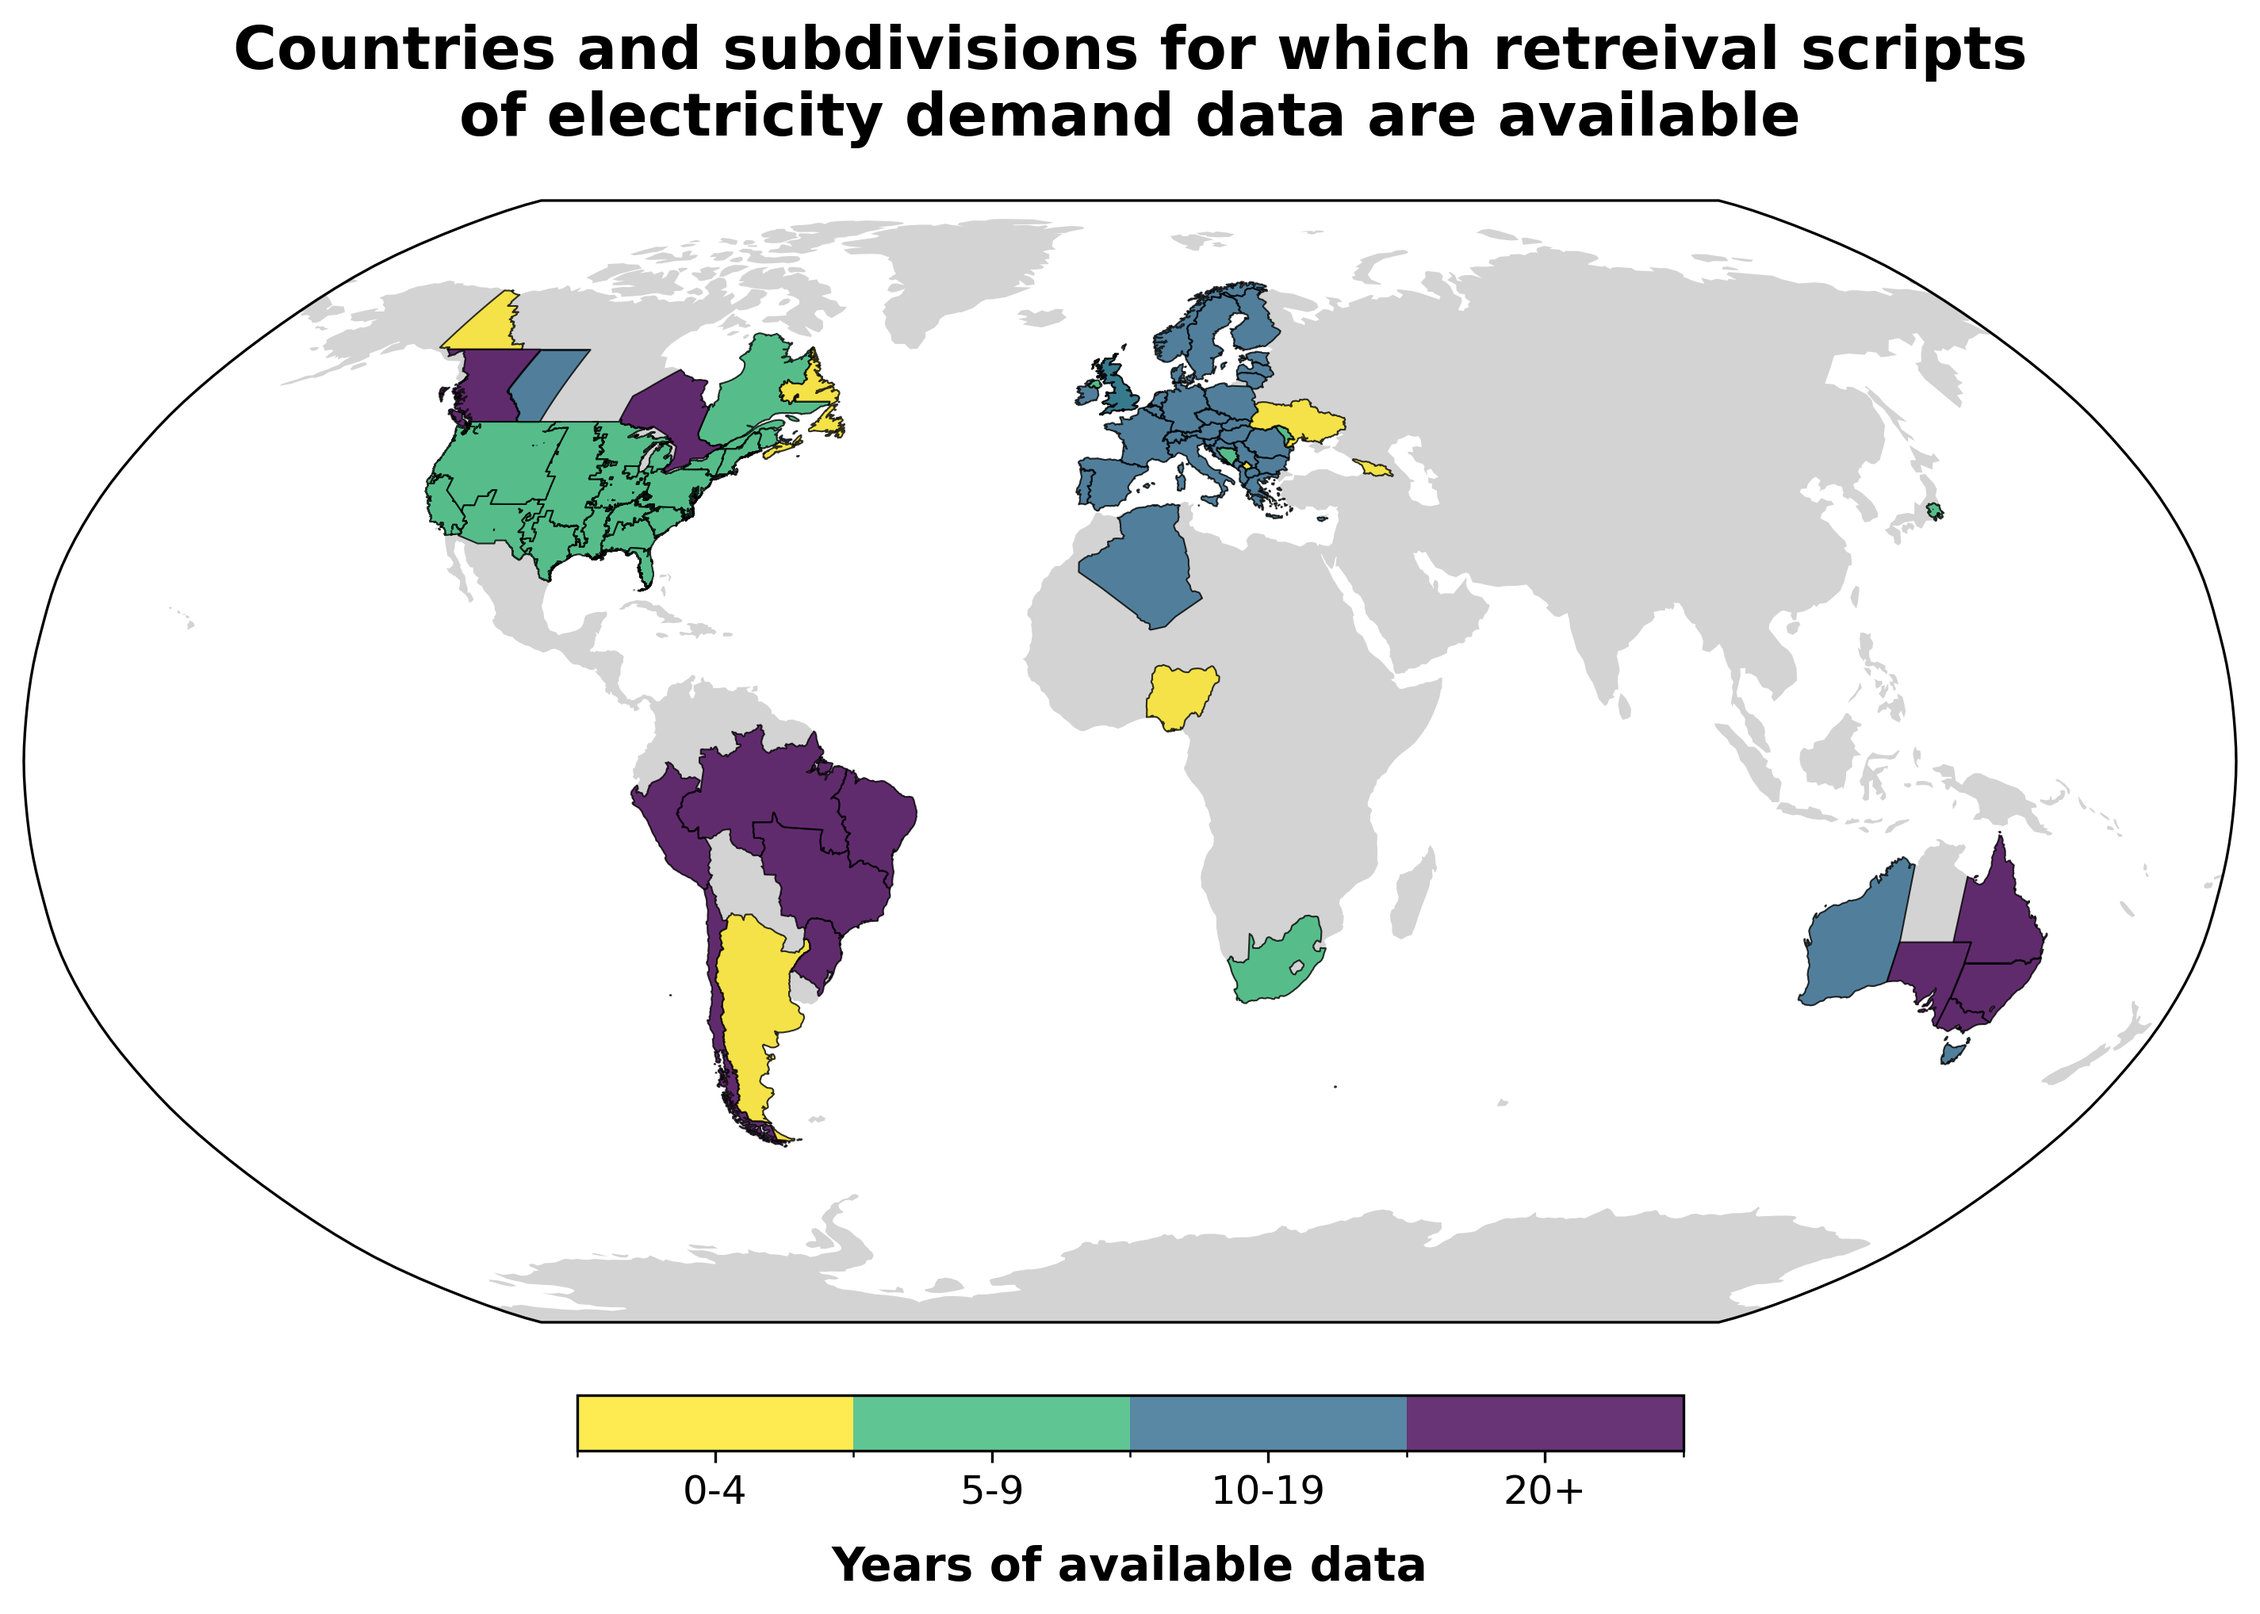
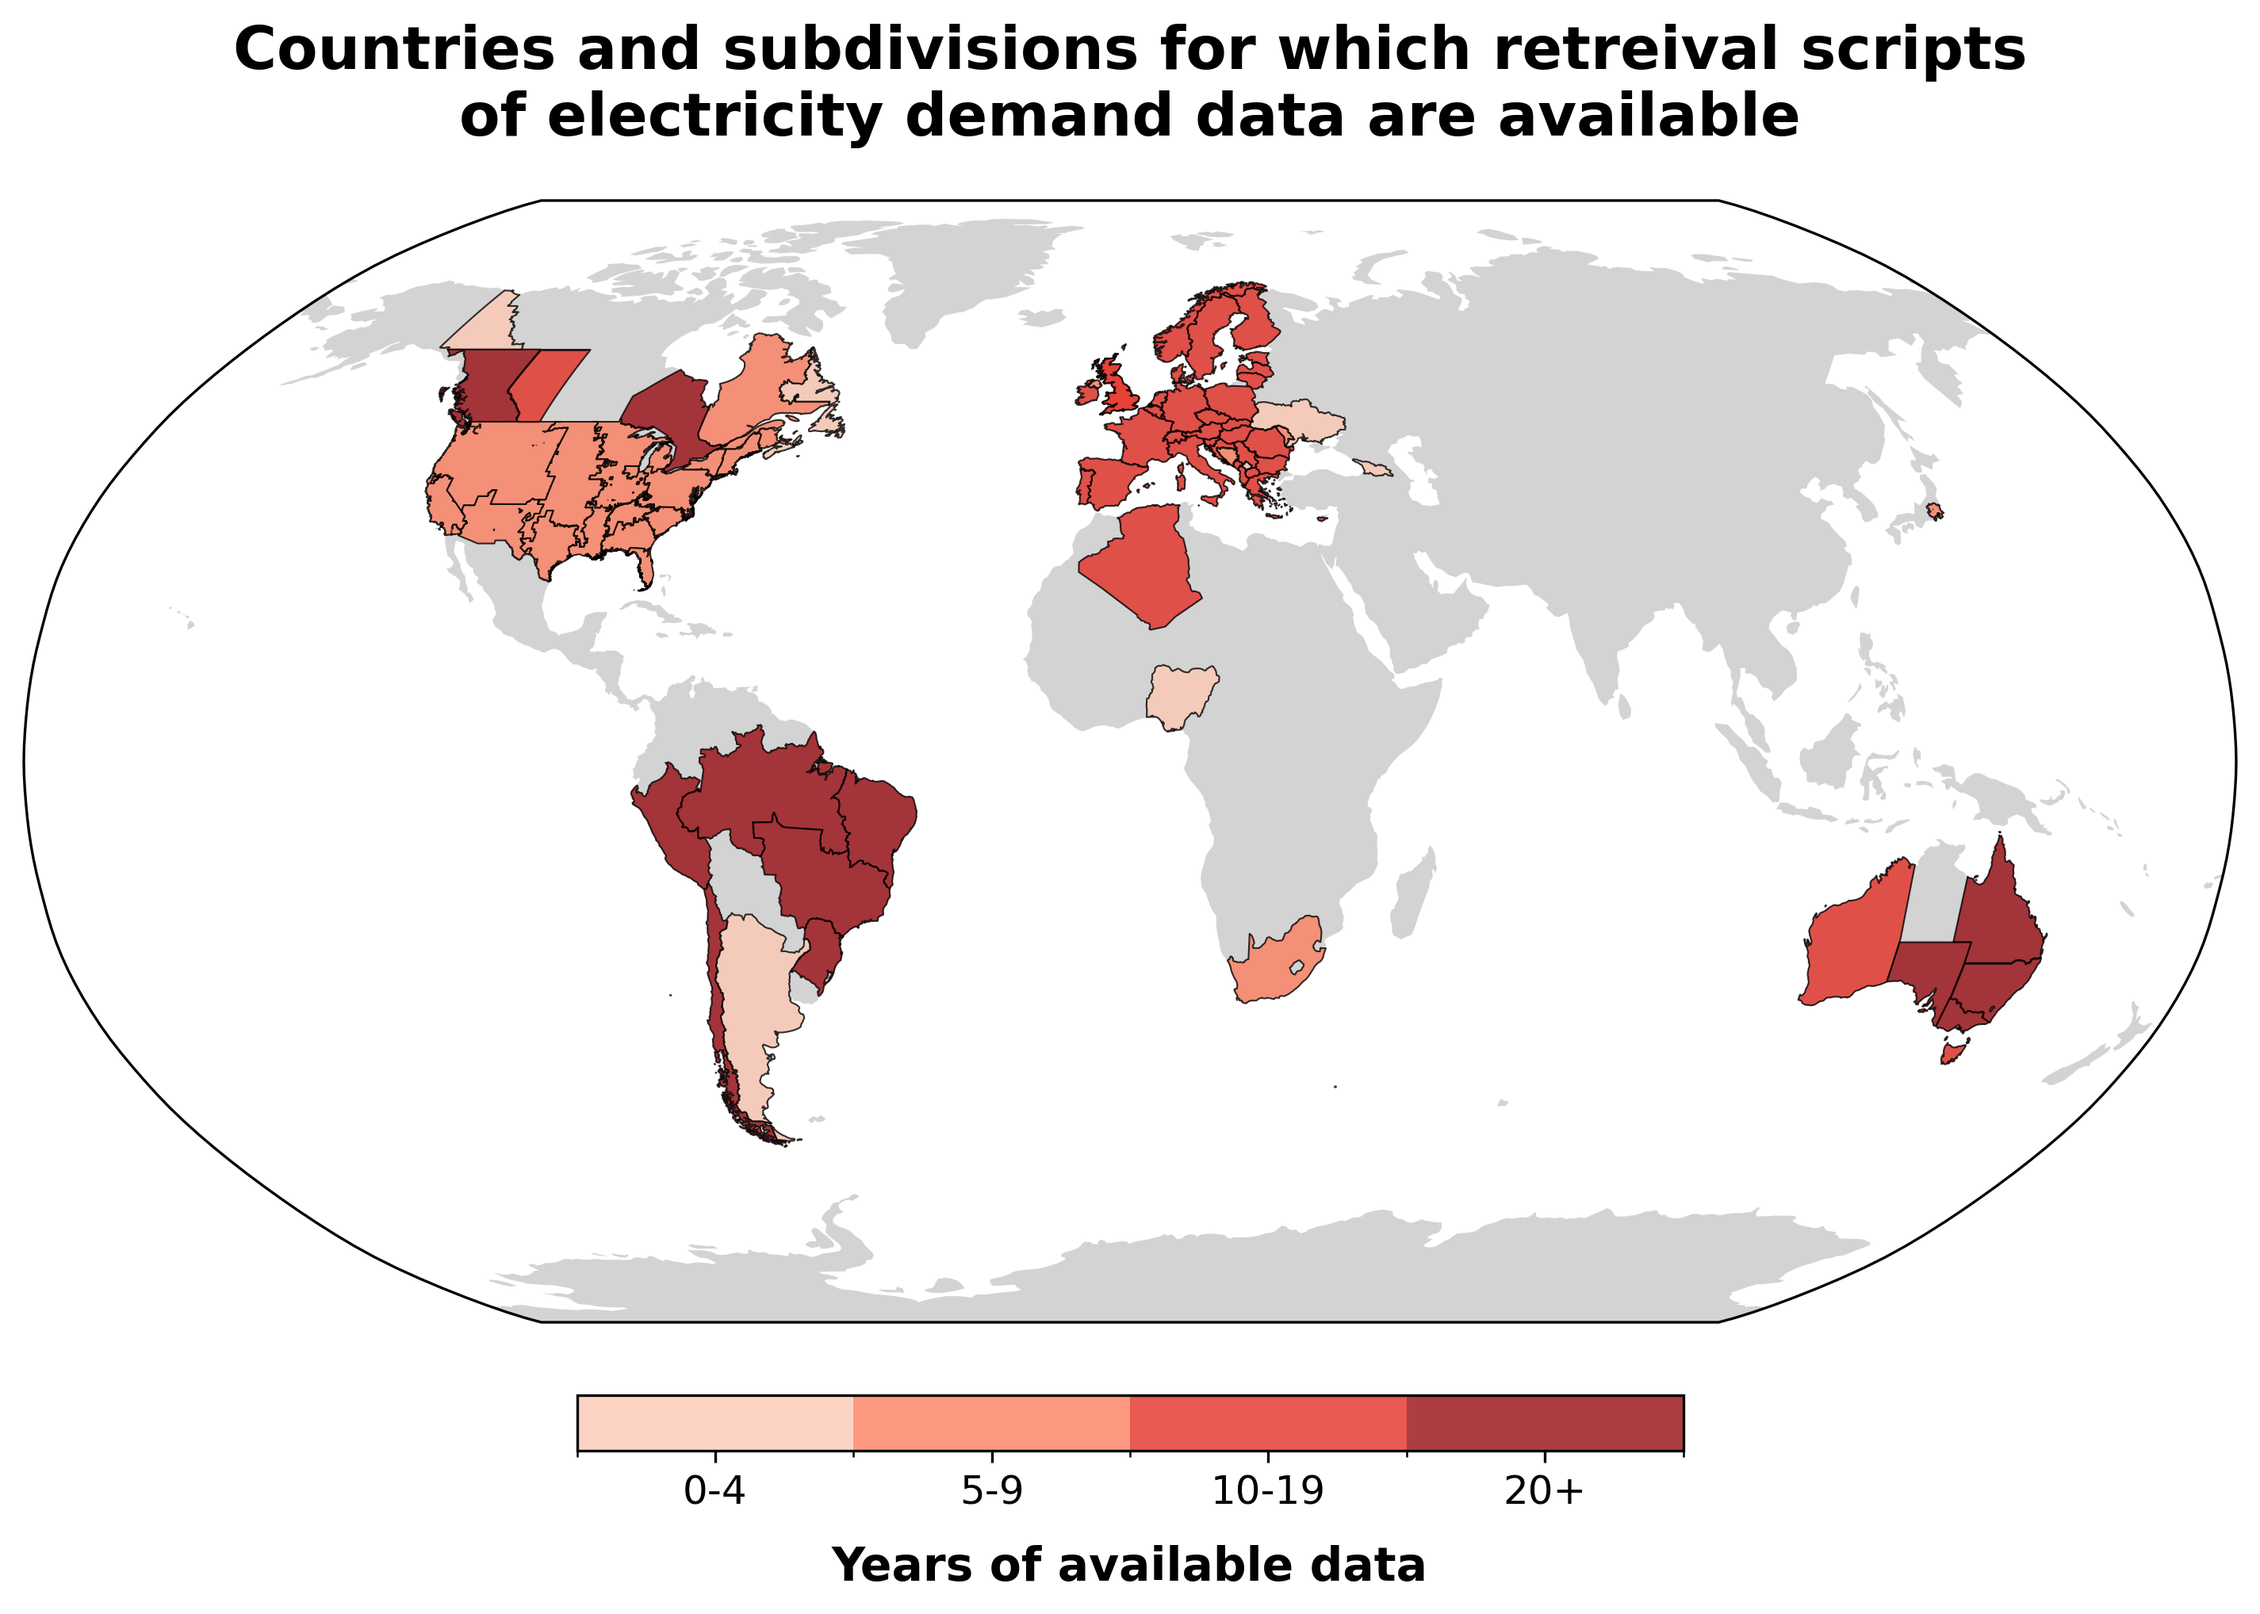
Updated map

diff --git a/ETL/draw_map_of_covered_countries.py b/ETL/draw_map_of_covered_countries.py
@@ -45,10 +45,14 @@ ax.add_feature(cartopy.feature.LAND, facecolor="lightgray")
 date_ranges = util.entities.read_all_date_ranges()
 
 # Define the colormap.
-map_cmap = matplotlib.pyplot.get_cmap("viridis_r")
+map_cmap = matplotlib.pyplot.get_cmap("Reds")
 
 # Set the transparency of the shapes.
 alpha = 0.8
+
+# Define the extent of the colormap.
+lower_bound = 0.2
+upper_bound = 0.9
 
 # Loop over the countries.
 for code in codes:
@@ -60,13 +64,13 @@ for code in codes:
 
     # Define the transparency of the shape based on the number of years of available data.
     if n_years >= 0 and n_years < 5:
-        color = map_cmap(0.0)
+        color = map_cmap(lower_bound)
     elif n_years >= 5 and n_years < 10:
-        color = map_cmap(0.33)
+        color = map_cmap(lower_bound + (upper_bound - lower_bound) / 3)
     elif n_years >= 10 and n_years < 20:
-        color = map_cmap(0.66)
+        color = map_cmap(lower_bound + (2 * (upper_bound - lower_bound)) / 3)
     else:
-        color = map_cmap(1.0)
+        color = map_cmap(upper_bound)
 
     # Plot the country or subdivision.
     entity_shape.plot(
@@ -82,10 +86,10 @@ for code in codes:
 
 # Extract the base color of the colormap.
 base_colors = [
-    map_cmap(0.0),
-    map_cmap(0.33),
-    map_cmap(0.66),
-    map_cmap(1.0),
+    map_cmap(lower_bound),
+    map_cmap(lower_bound + (upper_bound - lower_bound) / 3),
+    map_cmap(lower_bound + 2 * (upper_bound - lower_bound) / 3),
+    map_cmap(upper_bound),
 ]
 
 # Modify the transparency of the base colors.
